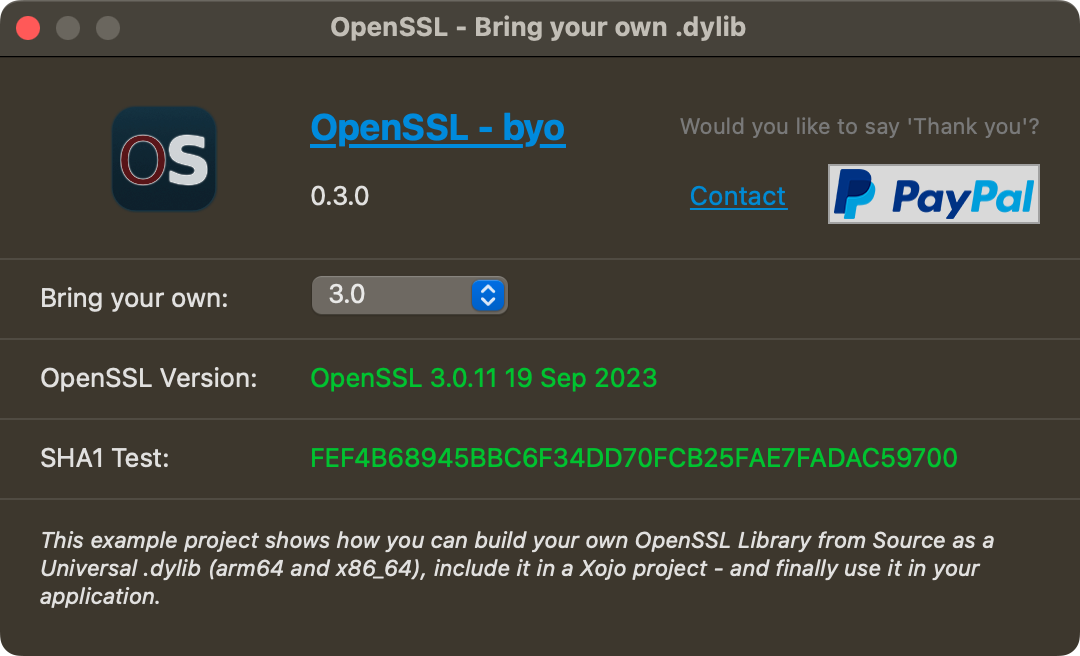
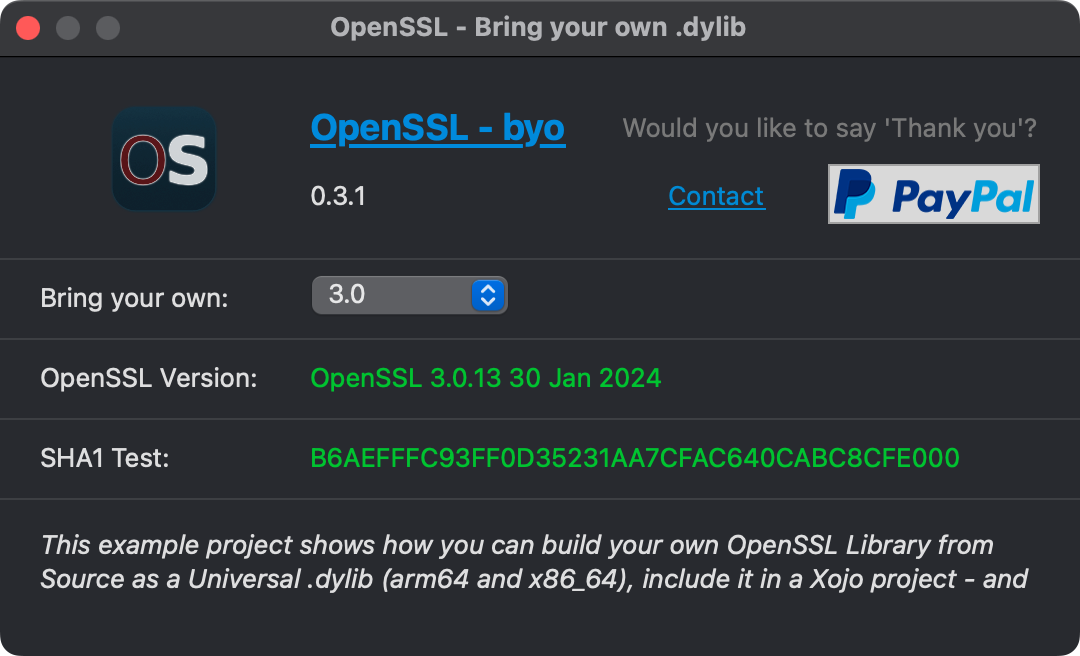
Update ReadMe

diff --git a/openssl/README.md b/openssl/README.md
@@ -6,16 +6,18 @@ This example is building OpenSSL as a Universal Binary for Intel-64Bit and ARM-6
 ## Requirements
 It requires a macOS Version and Xcode version that is capable of building these two targets.
 
-The included built ```.dylib```'s have been built using:
-- macOS 13.6
-- Xcode 15.0
+The included built ```.dylib```'s (Version 3.x) have been built using:
+- macOS 14.4.1
+- Xcode 15.3
 
 ## Let's build OpenSSL
 There are subfolders for different OpenSSL versions.  
 - Version [0.9.8](./0.9.8zh) needs some manual modifications in order to compile it for ARM-64Bit.  
-  However - it's an outdated OpenSSL version.
-- For Version [3.1](./3.1) the script modifies `VERSION.dat` so that .dylibs will have `3.1` in the filename.
-- So best look in the folders [3.0 (LTS)](./3.0), [3.1](./3.1) and [1.1](./1.1).
+  However - it's an outdated OpenSSL version. It should no longer be used.
+- Version [1.1](./1.1)  
+  Note: This version is out of support and should no longer be used.
+- For Version [3.1](./3.1) and [3.2](./3.2) the script modifies `VERSION.dat` so that .dylibs will have `3.x` in the filename.
+- So best look in the folders [3.0 (LTS)](./3.0), [3.1](./3.1) and [3.2](./3.2).
 
 How to build OpenSSL using the provided Shell Scripts:
 1. Launch Terminal
@@ -25,11 +27,11 @@ How to build OpenSSL using the provided Shell Scripts:
 4. Edit the Build Script ```build.sh``` with a TextEditor of your choice
 5. Change the variable to the OpenSSL version you're going to build:  
    - To build OpenSSL 3.0.x (LTS):  
-     ```DOWNLOAD_OPENSSL_VERSION="3.0.11"```
+     ```DOWNLOAD_OPENSSL_VERSION="3.0.13"```
    - To build OpenSSL 3.1.x:  
-     ```DOWNLOAD_OPENSSL_VERSION="3.1.3"```
-   - To build OpenSSL 1.1.1x:  
-     ```DOWNLOAD_OPENSSL_VERSION="1.1.1w"```
+     ```DOWNLOAD_OPENSSL_VERSION="3.1.5"```
+   - To build OpenSSL 3.2.x:  
+     ```DOWNLOAD_OPENSSL_VERSION="3.2.1"```
 6. just in case: the build script needs to be executable:  
    ```chmod 755 ./build.sh```
 7. Run the Script build.sh:  
@@ -42,11 +44,11 @@ The build script will perform the following steps:
 4. Combine the built .dylibs to a Universal ```.dylib``` containing both Targets
 
 Note: The build script doesn't do error checking...  
-Should you noot see the expected ```.dylib```'s in the build folder once it finishes, you need to look into the Shell Output and figure out what didn't work as expected.
+Should you not see the expected ```.dylib```'s in the build folder once it finishes, you need to look into the Shell Output and figure out what didn't work as expected.
 
 Result:
 In your "openssl" folder you should now have 2 files:
-1. libssl.3.dylib
-2. libcrypto.3.dylib
+1. `libssl.3(.x).dylib`
+2. `libcrypto.3(.x).dylib`
 
 Note: The version number in the filename is being set automatically according to the version you've built.

diff --git a/README.md b/README.md
@@ -21,7 +21,7 @@ Using OpenSSL 3.0.x in a Xojo built application
 [Xojo](https://www.xojo.com/) is a rapid application development for Desktop, Web, Mobile & Raspberry Pi.  
 
 The Desktop application Xojo example project ```openssl-byo.xojo_project``` is using:
-- Xojo 2023r3
+- Xojo 2024r1.1
 - API 2
 
 ### How to use in your own Xojo project?
